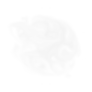
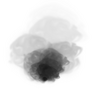
particle source window is now in tk. there's no more updatable inx file

diff --git a/extensions/listAvailableElements.py b/extensions/listAvailableElements.py
@@ -1,6 +1,6 @@
 textures={'ArcticsBlue1': 'ArcticsBlue1_417.jpg','ArcticsBlue2': 'ArcticsBlue2_418.jpg','ArcticsBlue3': 'ArcticsBlue3_419.jpg','ArcticsRed1': 'ArcticsRed1_420.jpg','ArcticsRed2': 'ArcticsRed2_421.jpg','ArcticsRed3': 'ArcticsRed3_422.jpg','Asphalt1': 'Asphalt1_197.jpg','Asphalt2': 'Asphalt2_198.jpg','autumn': 'autumn_481.jpg','Black': 'Black.jpg','BlackSea': 'BlackSea_174.jpg','blackwhite': 'blackwhite_231.jpg','Blue1InRainbows': 'Blue1InRainbows_465.png','Blue2InRainbows': 'Blue2InRainbows_470.png','BlueBlue': 'BlueBlue_173.jpg','BlueBricks': 'BlueBricks.jpg','BlueDiag': 'BlueDiag_214.png','BlueViolet': 'BlueViolet_172.jpg','BlurBlocks1': 'BlurBlocks1_270.jpg','Bricks': 'Bricks.jpg','Bricks2': 'Bricks2_271.jpg','BubbleDark': 'BubbleDark_371.jpg','BubbleLight': 'BubbleLight_370.jpg','chessybackground': 'chessybackground_242.jpg','chessymiddle': 'chessymiddle_241.jpg','chessytoodark': 'chessytoodark_207.jpg','chessy_dark': 'chessy_dark_200.jpg','chessy_light': 'chessy_light_199.jpg','ComicClouds': 'ComicClouds_213.jpg','crystal_tex': 'crystal_tex_487.png','DarkDirt': 'DarkDirt.jpg','DarkFrostGround': 'DarkFrostGround.jpg','darkgrey': 'darkgrey_295.png','darkwood': 'darkwood_157.jpg','DarkWood2': 'DarkWood2_159.jpg','DegradGreen': 'DegradGreen_169.jpg','DegradOrange': 'DegradOrange_168.jpg','Dirt': 'Dirt.jpg','Dirt_fg': 'Dirt_fg_243.jpg','Flesh01': 'Flesh01_410.jpg','FrostGround': 'FrostGround.jpg','fuego': 'fuego_189.jpg','glass1': 'glass1_364.png','glass_blue': 'glass_blue_473.png','glass_green': 'glass_green_475.png','glass_red': 'glass_red_474.png','Grass1': 'Grass1_210.png','Grass2': 'Grass2_211.jpg','greek': 'greek_486.png','GreenInRainbows': 'GreenInRainbows_467.png','GroundGravel': 'GroundGravel_272.jpg','helltiles': 'helltiles_176.jpg','hochhaus': 'hochhaus_298.jpg','hochhaus2': 'hochhaus2_299.jpg','hochhaus3': 'hochhaus3_300.jpg','hochhaus4': 'hochhaus4_301.jpg','KRWBlueRockDark': 'KRWBlueRockDark_253.jpg','KRWBlueRockVeryDark': 'KRWBlueRockVeryDark_254.jpg','KRWNightSky': 'KRWNightSky_255.jpg','KRWNightSkyMoon': 'KRWNightSkyMoon_256.jpg','KRWNightSkyNoMoon': 'KRWNightSkyNoMoon_257.jpg','Lava': 'Lava_372.jpg','lightgrey': 'lightgrey_293.png','loupechene': 'loupechene_277.jpg','MarbleTilePurple': 'MarbleTilePurple_178.jpg','MarbleTilePurple_light': 'MarbleTilePurple_179.jpg','mediumgrey': 'mediumgrey_294.png','Metal': 'Metal_190.jpg','Metal2': 'Metal2_191.jpg','Metal3': 'Metal3_192.jpg','MoltenRock': 'MoltenRock.jpg','Moon': 'Moon_223.png','moresand': 'moresand_484.png','moresand2': 'moresand2_485.png','Orange1InRainbows': 'Orange1InRainbows_466.png','Orange2InRainbows': 'Orange2InRainbows_468.png','Peau': 'Peau_416.png','pop_background': 'pop_background.jpg','pop_bricks': 'pop_bricks.jpg','pop_bricks_top': 'pop_bricks_top.jpg','Red1': 'Red1_215.jpg','RedInRainbows': 'RedInRainbows_469.png','Rust': 'Rust_193.jpg','Sand': 'Sand_310.jpg','SandDark': 'SandDark_311.jpg','shadow1': 'shadow1_423.png','shadow2': 'shadow2_424.png','sky1': 'Sky1.jpg','sky2': 'Sky2.jpg','Sky2Drift': 'Sky2Drift.jpg','Sky3': 'Sky3_297.jpg','snow': 'snow_175.jpg','snow_sprite': 'snow_sprite_377.png','SolidOrange': 'SolidOrange_170.jpg','Space': 'Space_194.jpg','stone_white': 'stone_white_357.jpg','street': 'street.jpg','technics': 'technics_362.jpg','technics_dark': 'technics_dark_363.jpg','TilesBlue': 'TilesBlue_180.jpg','TilesGreen': 'TilesGreen_181.jpg','TilesOrange': 'TilesOrange_182.jpg','TilesRed': 'TilesRed_183.jpg','TilesTeal': 'TilesTeal_184.jpg','TilesYellow': 'TilesYellow_185.jpg','TiZeta': 'TiZeta_278.jpg','TransparentBlue1': 'TransparentBlue1_269.png','Ubuntu': 'Ubuntu_171.jpg','vloup': 'vloup_279.jpg','Wallpaper1': 'Wallpaper1_195.jpg','Wallpaper2': 'Wallpaper2_196.jpg','Water1': 'Water1_186.jpg','Water2': 'Water2_187.jpg','white': 'white_472.jpg','wood': 'wood.jpg','Wood2': 'Wood2_158.jpg','Wood3': 'Wood3_296.png','Yellow': 'Yellow_177.jpg','YellowInRainbows': 'YellowInRainbows_464.png'}
 edgeTextures={'Bloodeffect': 'Bloodeffect_407.png','BlueBricks': 'EdgeBlueBricks1.jpg','bluen': 'bluen_365.png','darken': 'darken_288.png','dirt_fx': 'dirt_fx_471.png','EarthVines': 'EarthVines.png','EdgeCSite1': 'EdgeCSite1_209.png','EdgeGrass2': 'EdgeGrass1.png','Grass': 'EdgeGrass1.png','GrassAlt': 'EdgeGrassAlt1.png','GrassAlt2': 'EdgeGrassAlt1.png','GrayBricks': 'EdgeGrayBricks1.jpg','Ice1': 'EdgeIce1.png','KRWBlueRockEdge': 'KRWBlueRockEdge_252.png','lighten': 'lighten_369.png','RedBricks': 'EdgeRedBricks1.jpg','stone_fx': 'stone_fx_483.png','street': 'street_245.png','street2': 'street2_404.png'}
-particleSources=['Smoke','Fire']
+particleSources={'Smoke': 'Smoke1.png', 'Fire': 'Fire1.png'}
 sprites={'Daulphin2': 'Daulphin2_162.png', 'Flower': 'Flower00.png', 'totem1': 'totem1_203.png', 'ScriptWarning': 'ScriptWarning_309.png', 'Sun': 'Sun_161.png', 'TheX': 'TheX_488_00.png', 'home01': 'home01.png', 'KeyDrive': 'KeyDrive_499.png', 'alien': 'alien_238_00.png', 'Wrecker': 'Wrecker00.png', 'palmtree2': 'palmtree2_202.png', 'KeyBrake': 'KeyBrake_500.png', 'HellHead': 'HellHead_167.png', 'FinSignRight1': 'FinSignRight1.png', 'TuxFly': 'TuxFly_160.png', 'beerleft': 'beerleft_222.png', 'panel': 'panel_230.png', 'palmtree': 'palmtree_201.png', 'Star': 'Star00.png', 'sunflower': 'sunflower_205_00.png', 'MultiBaloons': 'MultiBaloons_163.png', 'cog2': 'cog2_240_00.png', 'ThisWaySignLeft1': 'ThisWaySignLeft1.png', 'Grass1': 'Grass1.png', 'evilfish': 'evilfish_225_00.png', 'Tree1': 'Tree1.png', 'HStones': 'HStones.png', 'heart1': 'heart1_361_00.png', 'bird': 'bird_ani_00.png', 'YellowFlare': 'YellowFlare.png', 'SnowMan': 'SnowMan.png', 'BlankSignLeft1': 'BlankSignLeft1.png', 'palmgrass': 'palmgrass_204.png', 'BlankSignRight1': 'BlankSignRight1.png', 'smiley': 'smiley_480_00.png', 'FinSignLeft1': 'FinSignLeft1.png', 'dock': 'docks_Stange.png', 'CastleWindow1': 'CastleWindow1.png', 'totem2': 'totem2_206.png', 'CastleDoor1': 'CastleDoor1.png', 'Nenufart': 'Nenufart_165.png', 'ThisWaySignRight1': 'ThisWaySignRight1.png', 'Daulphin': 'Daulphin_166.png', 'KeyLeft': 'KeyLeft_501.png', 'Bridge': 'Bridge.png', 'Strawberry': 'Strawberry00.png', 'laser': 'laser_239_00.png', 'eyesindark': 'eyesindark_00.png', 'cow': 'cow_379.png', 'KeyRight': 'KeyRight_502.png', 'zombie_fat': 'zombie_animiert_00.png', 'ring': 'ring_228_00.png', 'tree': 'tree_381.png', 'HangingVines1': 'HangingVines1.png', 'HangingVines2': 'HangingVines2.png', 'Tree2': 'Tree2.png', 'MetallicaWrecker': 'MetallicaWrecker_273_00.png', 'checkball': 'checkball_235_00.png', 'deathstar': 'deathstar_234_00.png', 'Earth': 'Earth_164.png', 'birdright': 'bird_ani_right_00.png', 'tomate': 'tomate_00.png', 'Tut3Sign': 'Tut3Sign.png'}
 rversions=['0.2.0','0.2.1','0.2.2','0.2.3','0.2.4','0.2.5','0.2.6','0.2.7','0.3.0','0.3.1','0.3.2','0.3.3','0.3.4','0.4.0']
 musics=['menu1','rideALong','batcave','blockolando','madeirastew']

diff --git a/extensions/xmotoExtensionTkinter.py b/extensions/xmotoExtensionTkinter.py
@@ -10,7 +10,7 @@ import Tix
 import tkFileDialog
 import tkMessageBox
 import logging, log
-from listAvailableElements import textures, edgeTextures, sprites
+from listAvailableElements import textures, edgeTextures, sprites, particleSources
 
 class XmotoWidget:
     def __init__(self):
@@ -154,13 +154,13 @@ class XmotoBitmap(XmotoWidget):
         self.label.configure(text=imgName)
 
 class XmotoExtensionTkinter(XmotoExtension):
-    """ use for extensions with their own window made with tkinter
+    """ for extensions with their own window made with tkinter
     """
     def __init__(self):
         XmotoExtension.__init__(self)
-        edgeTextures['_None_'] = 'none.png'
-        textures['_None_']     = 'none.png'
-        sprites['_None_']      = 'none.png'
+        edgeTextures['_None_']    = 'none.png'
+        textures['_None_']        = 'none.png'
+        sprites['_None_']         = 'none.png'
 
     def defineWindowHeader(self, title=''):
         self.root = Tkinter.Tk()
@@ -265,6 +265,9 @@ class XmotoExtensionTkinter(XmotoExtension):
 
     def spriteSelectionWindow(self, imgName, buttonName):
         self.bitmapSelectionWindow('Sprite Selection', sprites, buttonName)
+
+    def particleSelectionWindow(self, imgName, buttonName):
+        self.bitmapSelectionWindow('Particle Source Selection', particleSources, buttonName)
 
     def bitmapSelectionWindow(self, title, bitmaps, callingButton):
         self.top = Tkinter.Toplevel(self.root)

diff --git a/extensions/changeParticleSource.py b/extensions/changeParticleSource.py
@@ -1,0 +1,26 @@
+from xmotoExtensionTkinter import XmotoExtTkElement, XmotoBitmap
+from xmotoTools import getValue, createIfAbsent, setOrDelBitmap
+from listAvailableElements import particleSources
+
+class ChangeParticleSource(XmotoExtTkElement):
+    def getUserChanges(self):
+        self.commonValues = {}
+        self.commonValues['typeid'] = 'ParticleSource'
+
+        createIfAbsent(self.commonValues, 'param')
+        setOrDelBitmap(self.commonValues['param'], 'type', self.particle)
+
+        return self.commonValues
+
+    def createWindow(self):
+        self.defineWindowHeader(title='')
+
+        defaultParticle = getValue(self.commonValues, 'param', 'type', default='Fire')
+        self.defineLabel(self.frame, 'Particle source type:')
+        self.particle = XmotoBitmap(self.frame, particleSources[defaultParticle], defaultParticle, self.particleSelectionWindow, buttonName='particle')
+
+    def bitmapSelectionWindowHook(self, imgName, buttonName):
+        self.particle.update(imgName, particleSources)
+
+e = ChangeParticleSource()
+e.affect()

diff --git a/extensions/updateInx.py b/extensions/updateInx.py
@@ -259,8 +259,8 @@ def updateInx(content, directory):
         from listAvailableElements import textures, edgeTextures, sprites
         from listAvailableElements import particleSources
 
-    updateChangeBlockTexture_inx(directory, textures)
-    updateAddEdge_inx(directory, edgeTextures)
-    updateAddSprite_inx(directory, sprites)
-    updateAddParticleSource_inx(directory, particleSources)
-    updateChangeBlockType_inx(directory, textures)
+#    updateChangeBlockTexture_inx(directory, textures)
+#    updateAddEdge_inx(directory, edgeTextures)
+#    updateAddSprite_inx(directory, sprites)
+#    updateAddParticleSource_inx(directory, particleSources)
+#    updateChangeBlockType_inx(directory, textures)

diff --git a/extensions/addSkyInfos.py b/extensions/addSkyInfos.py
@@ -1,12 +1,12 @@
-from xmotoExtensionTkinter import XmotoExtensionTkinter, XmotoBitmap, XmotoScale
+from xmotoExtensionTkinter import XmotoExtTkLevel, XmotoBitmap, XmotoScale
 from xmotoTools import createIfAbsent, getValue, alphabeticSortOfKeys
 import logging, log
 import Tkinter
 from listAvailableElements import textures
 
-class AddSkyInfos(XmotoExtensionTkinter):
+class AddSkyInfos(XmotoExtTkLevel):
     def __init__(self):
-        XmotoExtensionTkinter.__init__(self)
+        XmotoExtTkLevel.__init__(self)
 
     def updateLabelData(self):
         def removeUnusedDatas(dataKeys):
